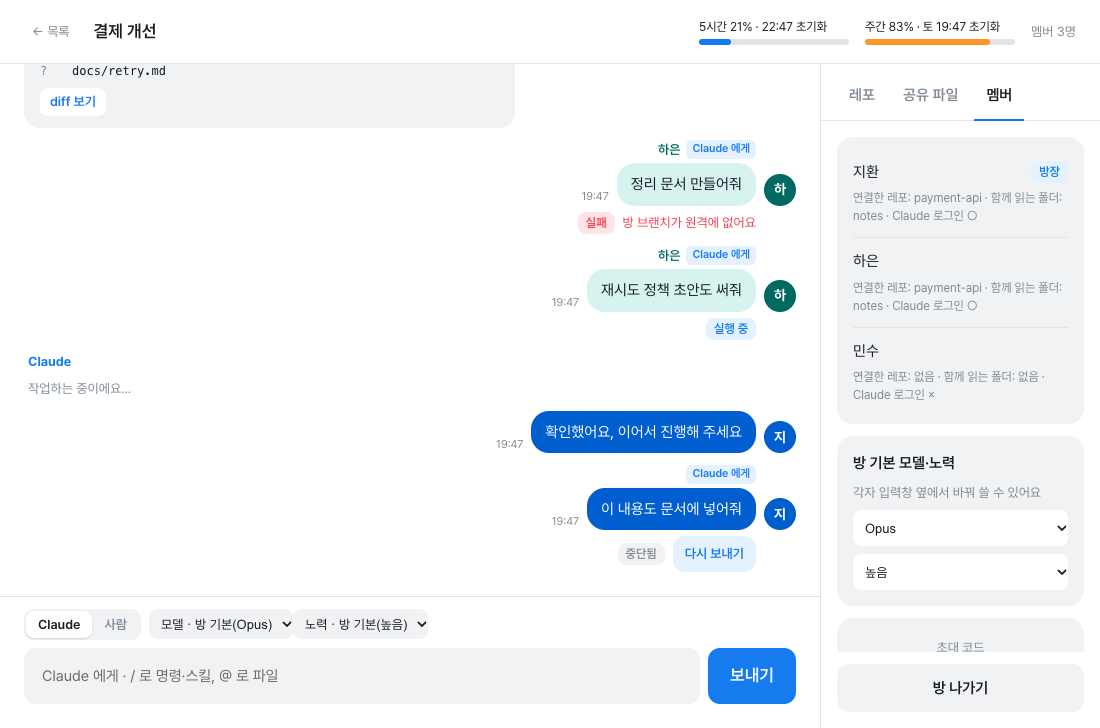
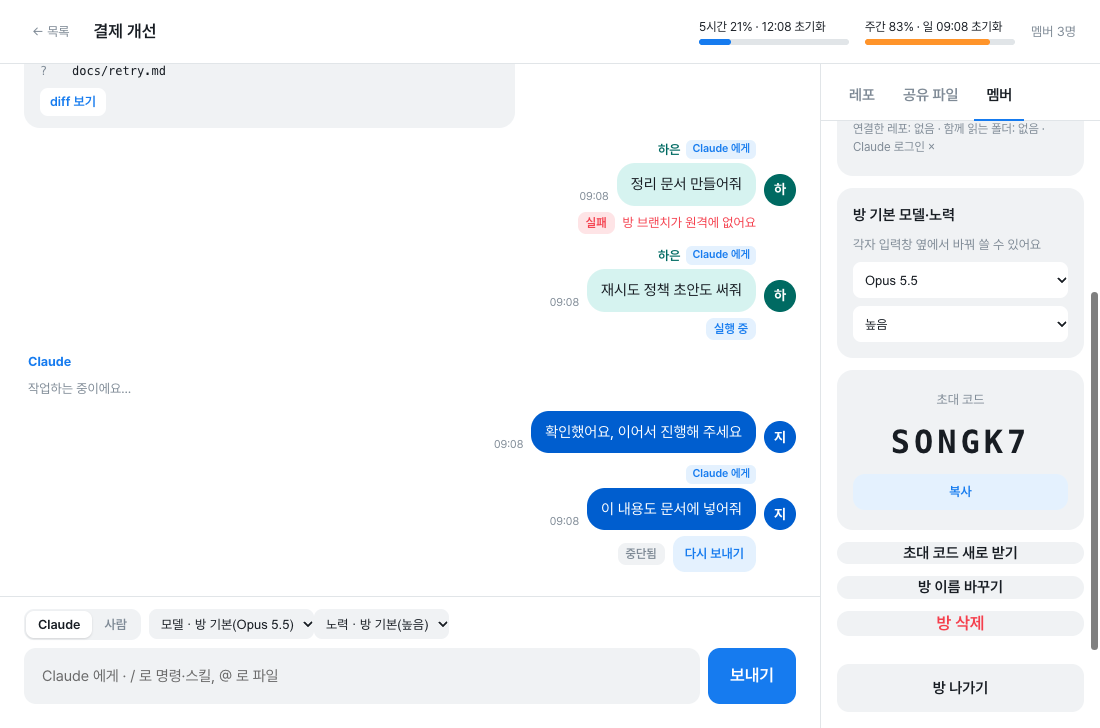
feat: 모델 선택을 버전이 붙은 이름과 정확한 모델 ID 로 변경
- 목록: Opus 5.5 · Fable 5.2 · Sonnet 5.5 · Haiku 5.5, 실행 때 claude-opus-5-5 같은 ID 를 넘김
  (별칭이면 PC 마다 Claude Code 버전에 따라 실제 모델이 달라질 수 있음)
- Claude 답 위 표시를 "Claude · Opus 5.5" 처럼 읽기 쉽게 바꿈
- 예전에 별칭으로 저장한 값은 "Opus(최신)" 으로 표시
- 화면 캡처 갱신

diff --git a/app/renderer/views/room.js b/app/renderer/views/room.js
@@ -1,12 +1,11 @@
 import { h, button } from '../dom.js';
-import { errorText, failText, STATUS_TEXT, formatTime, formatDate, renderMarkdown, personIndex, initial, memberSummary, modelLabel, effortLabel } from '../format.js';
+import { errorText, failText, STATUS_TEXT, formatTime, formatDate, renderMarkdown, personIndex, initial, memberSummary, modelLabel, effortLabel, MODELS } from '../format.js';
 import { openSheet, inputSheet, confirmSheet } from './sheet.js';
 import { attachAutocomplete } from './autocomplete.js';
 import { codeCard } from './codeChanges.js';
 import { usageBars } from './usage.js';
 
 const CLAUDE_START = /^\s*(@claude(?=\s|$)|\/)/i; // shared/protocol.js parseClaudeMention 과 같은 규칙
-const MODELS = ['opus', 'sonnet', 'haiku', 'fable'];
 const EFFORTS = ['low', 'medium', 'high', 'xhigh', 'max'];
 const PLACEHOLDER = { claude: 'Claude 에게 · / 로 명령·스킬, @ 로 파일', human: '사람끼리만 · Claude 는 보지 않아요' };
 const PREVIEW_LIMIT = 200 * 1024;
@@ -239,7 +238,7 @@ export function roomView(root, ctx, { roomId, tab = 'repos', preview: previewPat
     if (!parts.length && req.status === 'running') parts.push(h('div', { class: 'sub' }, '작업하는 중이에요…'));
     if (!parts.length && !cards.length) return null;
     return h('div', { class: 'claude-group' },
-      parts.length ? h('div', { class: 'claude-block' }, h('div', { class: 'claude-label' }, model ? `Claude · ${model}` : 'Claude'), parts) : null,
+      parts.length ? h('div', { class: 'claude-block' }, h('div', { class: 'claude-label' }, model ? `Claude · ${modelLabel(model)}` : 'Claude'), parts) : null,
       cards);
   }
 

diff --git a/app/renderer/format.js b/app/renderer/format.js
@@ -109,10 +109,18 @@ export function memberSummary(st) {
   return `연결한 레포: ${list(st.repos)} · 함께 읽는 폴더: ${list(st.readDirs)} · Claude 로그인 ${st.claude ? '○' : '×'}`;
 }
 
-const MODEL_LABEL = { opus: 'Opus', sonnet: 'Sonnet', haiku: 'Haiku', fable: 'Fable' };
+/** 모델 선택 목록(정확한 모델 ID). 새 모델이 나오면 여기만 고친다 */
+export const MODELS = ['claude-opus-5-5', 'claude-fable-5-2', 'claude-sonnet-5-5', 'claude-haiku-5-5'];
+const MODEL_LABEL = { opus: 'Opus(최신)', sonnet: 'Sonnet(최신)', haiku: 'Haiku(최신)', fable: 'Fable(최신)' };
 const EFFORT_LABEL = { low: '낮음', medium: '보통', high: '높음', xhigh: '매우 높음', max: '최대' };
 /** 모델·노력 단계 표시 이름. 빈 값은 빈 글자 */
-export const modelLabel = (v) => (v ? MODEL_LABEL[v] ?? v : '');
+export function modelLabel(v) {
+  if (!v) return '';
+  if (MODEL_LABEL[v]) return MODEL_LABEL[v];
+  // claude-opus-5-5, claude-opus-5-5-20261101 → Opus 5.5
+  const m = /^claude-([a-z]+)-(\d+)-(\d+)(?:-\d{8})?$/.exec(v);
+  return m ? `${m[1][0].toUpperCase()}${m[1].slice(1)} ${m[2]}.${m[3]}` : v;
+}
 export const effortLabel = (v) => (v ? EFFORT_LABEL[v] ?? v : '');
 
 const escapeHtml = (s) => String(s).replace(/[&<>"']/g, (c) => ({ '&': '&amp;', '<': '&lt;', '>': '&gt;', '"': '&quot;', "'": '&#39;' }[c]));

diff --git a/app/main/capture.js b/app/main/capture.js
@@ -140,7 +140,7 @@ export async function startCapture(outDir) {
     await b.request(MSG.MEMBER_STATUS, { roomId, status: { repos: ['payment-api'], readDirs: ['notes'], claude: true } });
     await c.request(MSG.MEMBER_STATUS, { roomId, status: { repos: [], readDirs: [], claude: false } });
     // 방 기본 모델·노력(방장 = A)
-    await handlers.setRoomSettings({ roomId, defaultModel: 'opus', defaultEffort: 'high' });
+    await handlers.setRoomSettings({ roomId, defaultModel: 'claude-opus-5-5', defaultEffort: 'high' });
     const notes = path.join(tmp, 'notes');
     fs.mkdirSync(notes);
 
@@ -174,7 +174,7 @@ export async function startCapture(outDir) {
       b.request(MSG.CHAT_SEND, { roomId, text }).catch(reject);
     });
     const event = (requestId, ev) => b.request(MSG.RUN_EVENT, { requestId, event: ev });
-    const text = (t) => ({ type: 'assistant', message: { model: 'claude-opus-4-7', content: [{ type: 'text', text: t }] } });
+    const text = (t) => ({ type: 'assistant', message: { model: 'claude-opus-5-5', content: [{ type: 'text', text: t }] } });
     const tool = (id, name, input) => ({ type: 'assistant', message: { content: [{ type: 'tool_use', id, name, input }] } });
 
     await b.request(MSG.CHAT_SEND, { roomId, text: '결제 실패 원인부터 볼까요?' });

diff --git a/app/test/format.test.js b/app/test/format.test.js
@@ -61,7 +61,9 @@ test('멤버 연결 요약·모델 이름·중단됨 문구', () => {
   assert.equal(memberSummary({ repos: ['a', 'b'], readDirs: ['x'], claude: true }), '연결한 레포: a, b · 함께 읽는 폴더: x · Claude 로그인 ○');
   assert.equal(memberSummary({ repos: [], readDirs: [], claude: false }), '연결한 레포: 없음 · 함께 읽는 폴더: 없음 · Claude 로그인 ×');
   assert.equal(memberSummary(undefined), '아직 연결 정보가 없어요');
-  assert.deepEqual([modelLabel('opus'), modelLabel('claude-x-1'), modelLabel('')], ['Opus', 'claude-x-1', '']);
+  assert.deepEqual([modelLabel('opus'), modelLabel('claude-x-1'), modelLabel('')], ['Opus(최신)', 'claude-x-1', '']);
+  assert.deepEqual([modelLabel('claude-opus-5-5'), modelLabel('claude-fable-5-2'), modelLabel('claude-haiku-5-5-20261101')],
+    ['Opus 5.5', 'Fable 5.2', 'Haiku 5.5']);
   assert.deepEqual([effortLabel('xhigh'), effortLabel('')], ['매우 높음', '']);
   assert.equal(STATUS_TEXT.cancelled, '중단됨');
   assert.equal(errorText('NOT_CANCELLABLE'), '이미 끝났거나 중단할 수 없는 요청이에요');
